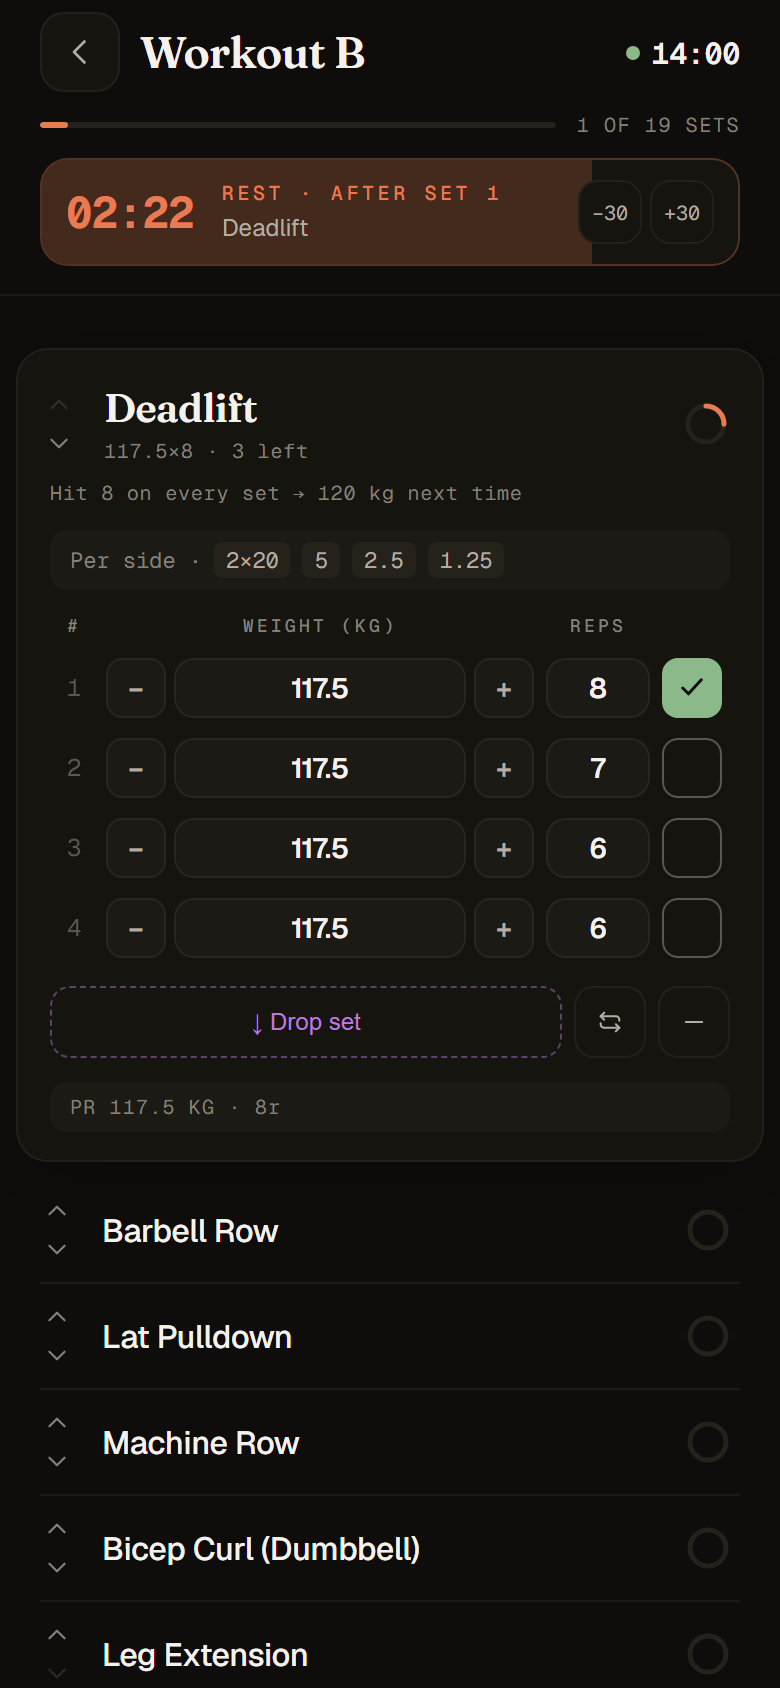
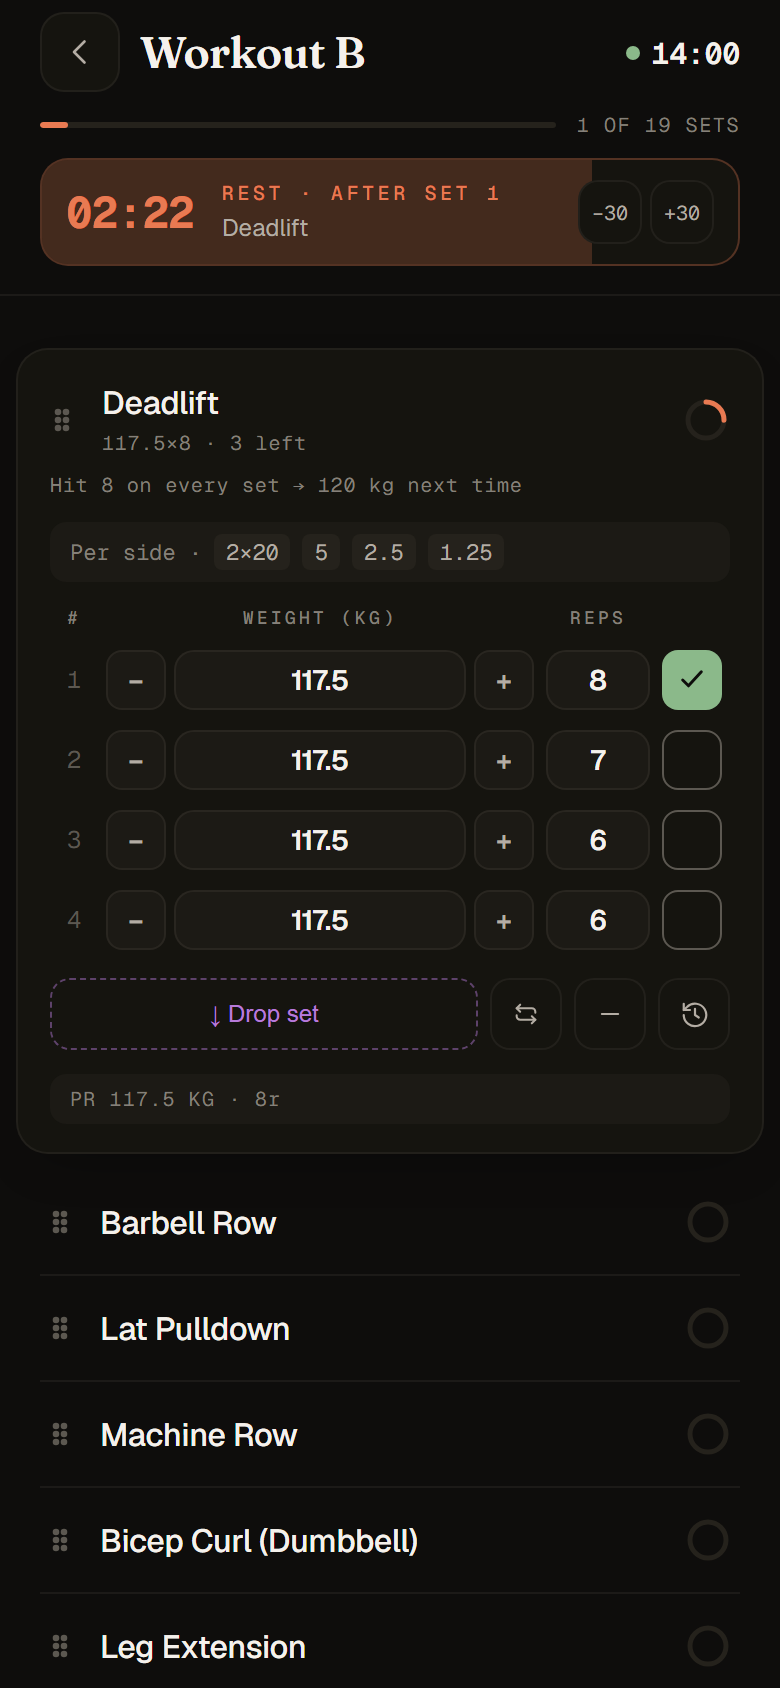
Workout cards: drag to reorder, same font when open, animated ring, history button
- Drag handle replaces the ↑/↓ buttons. Starting a drag collapses the open card
  in place (a re-render would orphan the touch) and reopens it after the drop
- The open card's name keeps the regular font (no switch to Fraunces)
- The per-exercise ring animates from its last fill to the new one; finishing
  the last set fills it, then it pops into the green check
- Tapping the name just opens/closes the card; exercise history moved to a
  history button next to remove set

diff --git a/index.html b/index.html
@@ -301,25 +301,27 @@
       margin: 8px -12px;
       box-shadow: 0 10px 28px -14px rgba(0,0,0,0.45);
     }
-    .ex-card.expanded .ex-name { font-family: 'Fraunces', serif; font-weight: 600; font-size: 20px; letter-spacing: -0.015em; }
     .ex-card.done:not(.expanded) { opacity: 0.55; }
     .ex-ring { width: 24px; height: 24px; flex-shrink: 0; display: inline-flex; align-items: center; justify-content: center; }
+    .ex-ring svg { width: 24px; height: 24px; }
+    .ex-ring-arc { transition: stroke-dashoffset .45s cubic-bezier(0.2, 0.8, 0.2, 1); }
     .ex-ring.done { border-radius: 50%; background: var(--good); color: var(--bg); }
+    .ex-ring.done svg { width: 13px; height: 13px; }
+    .ex-ring.pop { animation: ring-pop .3s cubic-bezier(0.2, 0.8, 0.2, 1.4) both; }
+    @keyframes ring-pop { from { transform: scale(0.6); opacity: 0.4; } to { transform: scale(1); opacity: 1; } }
     .session-progress { display: flex; align-items: center; gap: 10px; margin: 2px 0 10px; }
     .sp-bar { flex: 1; height: 3px; border-radius: 3px; background: var(--surface-3); overflow: hidden; }
     .sp-fill { height: 100%; border-radius: 3px; background: var(--accent); transition: width .35s ease; }
     .sp-label { font-family: 'Geist Mono', monospace; font-size: 10px; letter-spacing: 0.08em; color: var(--ink-3);
       text-transform: uppercase; white-space: nowrap; }
     .ex-head { display: flex; align-items: center; gap: 12px; cursor: pointer; }
-    .ex-move { display: flex; flex-direction: column; margin: -8px -2px -8px -8px; flex-shrink: 0; }
-    .ex-move-btn { background: none; border: none; color: var(--ink-3); cursor: pointer;
-      padding: 3px 6px; display: inline-flex; align-items: center; justify-content: center; }
-    .ex-move-btn:active { color: var(--accent); }
-    .ex-move-btn:disabled { opacity: 0.25; cursor: default; }
+    .ex-drag { color: var(--ink-4); cursor: grab; touch-action: none; flex-shrink: 0;
+      display: inline-flex; padding: 8px 4px 8px 0; margin: -8px -4px -8px -2px; }
+    .ex-card.dragging { position: relative; z-index: 20; background: var(--surface-2); border-radius: 12px;
+      box-shadow: var(--shadow); opacity: 1 !important; }
+    .ex-card.shifting { transition: transform .15s ease; }
     .ex-name { font-size: 16px; font-weight: 500; letter-spacing: -0.01em;
       display: flex; align-items: center; gap: 8px; }
-    .ex-name-text { cursor: pointer; }
-    .ex-name-text:active { color: var(--accent); }
     .ex-sub { font-family: 'Geist Mono', monospace; font-size: 10px; color: var(--ink-3);
       margin-top: 3px; letter-spacing: 0.04em; }
 
@@ -894,6 +896,7 @@
       note: `<path d="M4 4h12l4 4v12H4z"/><path d="M16 4v4h4"/><path d="M8 13h8M8 17h5"/>`,
       search: `<circle cx="11" cy="11" r="7"/><path d="M20 20l-4-4"/>`,
       trash: `<path d="M4 7h16"/><path d="M10 11v6M14 11v6"/><path d="M6 7l1 13a1 1 0 001 1h8a1 1 0 001-1l1-13"/><path d="M9 7V4h6v3"/>`,
+      history: `<path d="M3 12a9 9 0 1 0 2.6-6.4L3 8"/><path d="M3 3v5h5"/><path d="M12 7v5l3 2"/>`,
       drag: `<circle cx="9" cy="6" r="1.6" fill="currentColor"/><circle cx="9" cy="12" r="1.6" fill="currentColor"/><circle cx="9" cy="18" r="1.6" fill="currentColor"/><circle cx="15" cy="6" r="1.6" fill="currentColor"/><circle cx="15" cy="12" r="1.6" fill="currentColor"/><circle cx="15" cy="18" r="1.6" fill="currentColor"/>`,
       play: `<path d="M7 4l13 8-13 8z"/>`,
       pause: `<rect x="6" y="4" width="4" height="16"/><rect x="14" y="4" width="4" height="16"/>`,
@@ -2234,17 +2237,12 @@
 
         html += `<div class="ex-card${isExpanded?' expanded':''}${isDone?' done':''}" id="exc-${ei}" data-ei="${ei}">
           <div class="ex-head" onclick="toggleExpanded('${key}')">
-            <span class="ex-move" onclick="event.stopPropagation()">
-              <button class="ex-move-btn" ${ei === 0 ? 'disabled' : ''} onclick="moveExercise(${ei},-1)" aria-label="Move up">${svg('chevUp', 13, 2)}</button>
-              <button class="ex-move-btn" ${ei === currentSession.exercises.length - 1 ? 'disabled' : ''} onclick="moveExercise(${ei},1)" aria-label="Move down">${svg('chevDown', 13, 2)}</button>
-            </span>
+            <span class="ex-drag" data-ei="${ei}" onclick="event.stopPropagation()" aria-label="Drag to reorder">${svg('drag', 16)}</span>
             <div style="flex:1;min-width:0">
-              <div class="ex-name">
-                <span class="ex-name-text" onclick="event.stopPropagation();openExerciseHistory('${escapeHtml(ex.name)}')">${escapeHtml(ex.name)}</span>
-              </div>
+              <div class="ex-name">${escapeHtml(ex.name)}</div>
               ${subtitle ? `<div class="ex-sub">${subtitle}</div>` : ''}
             </div>
-            ${progressRing(doneCount, totalCount)}
+            ${progressRing(ex, doneCount, totalCount)}
           </div>`;
 
         if (isExpanded) {
@@ -2301,6 +2299,7 @@
             <button class="add-set-btn drop" onclick="addDropSet(${ei})">↓ Drop set</button>
             <button class="icon-btn" style="width:36px;height:36px;border-radius:10px" onclick="openSwapSheet(${ei})" title="Swap">${svg('swap', 14)}</button>
             ${ex.sets.length > 1 ? `<button class="icon-btn" style="width:36px;height:36px;border-radius:10px" onclick="removeSet(${ei})" title="Remove set">${svg('minus', 14)}</button>` : ''}
+            <button class="icon-btn" style="width:36px;height:36px;border-radius:10px" onclick="openExerciseHistory('${escapeHtml(ex.name)}')" title="History" aria-label="History">${svg('history', 15)}</button>
           </div>`;
           const pr = appData.personalRecords[ex.name];
           if (pr) html += `<div class="ex-pr-strip">PR ${pr.maxWeight} ${unit.toUpperCase()} · ${pr.reps ? pr.reps + 'r' : ''}</div>`;
@@ -2320,17 +2319,41 @@
 
       body.innerHTML = html;
       updateSessionProgress();
+      animateRings(body);
+      body.querySelectorAll('.ex-drag').forEach(h => {
+        h.addEventListener('touchstart', onExDragStart, { passive: false });
+        h.addEventListener('mousedown', onExDragStart);
+      });
     }
 
     // Small ring per exercise: ember arc for sets ticked, solid green check when all are done.
-    function progressRing(done, total) {
-      if (total && done >= total) return `<span class="ex-ring done">${svg('check', 13, 3)}</span>`;
-      const r = 9, c = 2 * Math.PI * r, frac = total ? done / total : 0;
-      return `<svg class="ex-ring" viewBox="0 0 24 24">
+    // It's drawn at the fill it last showed and animated to the new one (animateRings), so ticking a
+    // set fills it smoothly; the last set fills it, then it pops into the check.
+    const ringShown = new WeakMap(); // exercise → fraction last drawn
+    const doneRingHTML = pop => `<span class="ex-ring done${pop ? ' pop' : ''}">${svg('check', 13, 3)}</span>`;
+    function progressRing(ex, done, total) {
+      const frac = total ? Math.min(1, done / total) : 0;
+      const prev = ringShown.has(ex) ? ringShown.get(ex) : frac;
+      ringShown.set(ex, frac);
+      if (frac >= 1 && prev >= 1) return doneRingHTML(false);
+      const r = 9, c = 2 * Math.PI * r;
+      return `<span class="ex-ring"${frac >= 1 ? ' data-done="1"' : ''}><svg viewBox="0 0 24 24">
         <circle cx="12" cy="12" r="${r}" fill="none" stroke="var(--surface-3)" stroke-width="2.5"/>
-        ${frac ? `<circle cx="12" cy="12" r="${r}" fill="none" stroke="var(--accent)" stroke-width="2.5" stroke-linecap="round"
-          stroke-dasharray="${c}" stroke-dashoffset="${c * (1 - frac)}" transform="rotate(-90 12 12)"/>` : ''}
-      </svg>`;
+        <circle class="ex-ring-arc" cx="12" cy="12" r="${r}" fill="none" stroke="var(--accent)" stroke-width="2.5" stroke-linecap="round"
+          stroke-dasharray="${c}" style="stroke-dashoffset:${c * (1 - prev)}" data-to="${c * (1 - frac)}" transform="rotate(-90 12 12)"
+          ${prev === 0 && frac === 0 ? 'visibility="hidden"' : ''}/>
+      </svg></span>`;
+    }
+    function animateRings(root) {
+      // Two frames so the starting offset is painted before it changes (otherwise there's no transition).
+      requestAnimationFrame(() => requestAnimationFrame(() => {
+        root.querySelectorAll('.ex-ring-arc').forEach(a => {
+          if (a.dataset.to !== undefined) { a.removeAttribute('visibility'); a.style.strokeDashoffset = a.dataset.to; }
+        });
+      }));
+      root.querySelectorAll('.ex-ring[data-done="1"]').forEach(el => setTimeout(() => {
+        if (el.isConnected) el.outerHTML = doneRingHTML(true);
+      }, 480));
     }
 
     // Thin bar under the header filling as sets are ticked (drop sets are extras, not counted).
@@ -2345,16 +2368,71 @@
       el.innerHTML = `<div class="sp-bar"><div class="sp-fill" style="width:${width}"></div></div><div class="sp-label">${label}</div>`;
     }
 
-    // Tap ↑/↓ to move an exercise one place. The open card stays open (its key includes its index).
-    function moveExercise(ei, dir) {
-      const exs = currentSession && currentSession.exercises;
-      const to = ei + dir;
-      if (!exs || to < 0 || to >= exs.length) return;
-      const open = exs.find((e, i) => exKey(e, i) === expandedExerciseId);
-      [exs[ei], exs[to]] = [exs[to], exs[ei]];
-      if (open) expandedExerciseId = exKey(open, exs.indexOf(open));
-      triggerHaptic('light');
-      saveSessionBackup();
+    // Drag the handle to reorder. An open card collapses first so every row is the same small height,
+    // and opens again after the drop. It's collapsed in place, not re-rendered: replacing the element
+    // under your finger would stop the touch events reaching us.
+    let exDrag = null;
+    function onExDragStart(e) {
+      if (!currentSession || exDrag) return;
+      const touch = e.type === 'touchstart';
+      e.preventDefault(); e.stopPropagation();
+      const ei = parseInt(e.currentTarget.dataset.ei);
+      const exs = currentSession.exercises;
+      const reopen = exs.find((x, i) => exKey(x, i) === expandedExerciseId) || null;
+      const cards = [...document.querySelectorAll('#workout-body .ex-card')];
+      cards.forEach(c => {
+        if (!c.classList.contains('expanded')) return;
+        c.classList.remove('expanded');
+        const b = c.querySelector('.ex-body'); if (b) b.style.display = 'none';
+      });
+      const card = cards[ei]; if (!card) return;
+      const rects = cards.map(c => c.getBoundingClientRect());
+      const y0 = touch ? e.touches[0].clientY : e.clientY;
+      // Keep the row under your finger even if collapsing the open card moved it.
+      const center0 = rects[ei].top + rects[ei].height / 2;
+      exDrag = { ei, target: ei, cards, rects, center0, reopen };
+      card.classList.add('dragging');
+      cards.forEach((c, i) => { if (i !== ei) c.classList.add('shifting'); });
+      triggerHaptic('dragStart');
+      moveExDrag(y0);
+      const move = ev => { if (touch) ev.preventDefault(); moveExDrag(touch ? ev.touches[0].clientY : ev.clientY); };
+      const end = () => {
+        document.removeEventListener(touch ? 'touchmove' : 'mousemove', move);
+        document.removeEventListener(touch ? 'touchend' : 'mouseup', end);
+        if (touch) document.removeEventListener('touchcancel', end);
+        endExDrag();
+      };
+      document.addEventListener(touch ? 'touchmove' : 'mousemove', move, { passive: false });
+      document.addEventListener(touch ? 'touchend' : 'mouseup', end);
+      if (touch) document.addEventListener('touchcancel', end);
+    }
+    function moveExDrag(y) {
+      const { ei, cards, rects, center0 } = exDrag;
+      cards[ei].style.transform = `translateY(${y - center0}px)`;
+      let target = ei;
+      rects.forEach((r, i) => {
+        const mid = r.top + r.height / 2;
+        if (i > ei && y > mid) target = i;
+        if (i < ei && y < mid && i < target) target = i;
+      });
+      const h = rects[ei].height;
+      cards.forEach((c, i) => {
+        if (i === ei) return;
+        c.style.transform = (i > ei && i <= target) ? `translateY(-${h}px)` : (i < ei && i >= target) ? `translateY(${h}px)` : '';
+      });
+      if (target !== exDrag.target) triggerHaptic('light');
+      exDrag.target = target;
+    }
+    function endExDrag() {
+      const { ei, target, reopen } = exDrag;
+      exDrag = null;
+      const exs = currentSession.exercises;
+      if (target !== ei) {
+        const [moved] = exs.splice(ei, 1);
+        exs.splice(target, 0, moved);
+        saveSessionBackup();
+      }
+      expandedExerciseId = reopen ? exKey(reopen, exs.indexOf(reopen)) : null;
       renderWorkoutExercises();
     }
 
